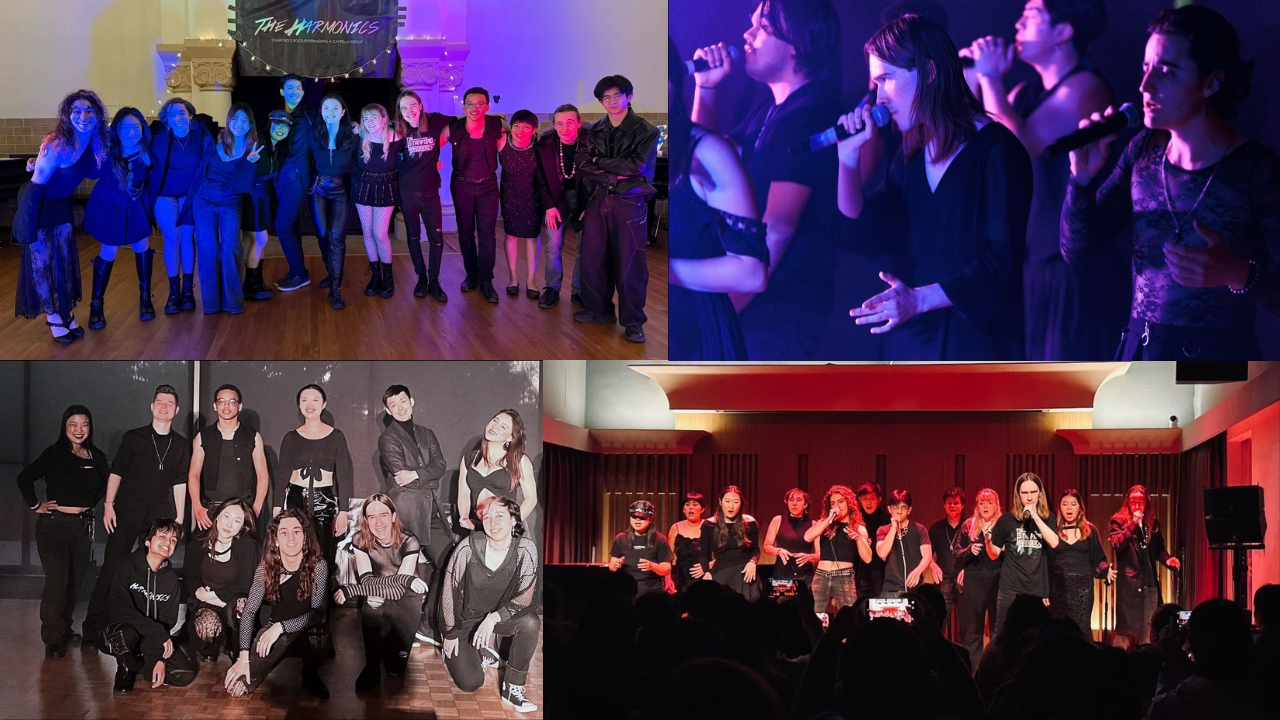
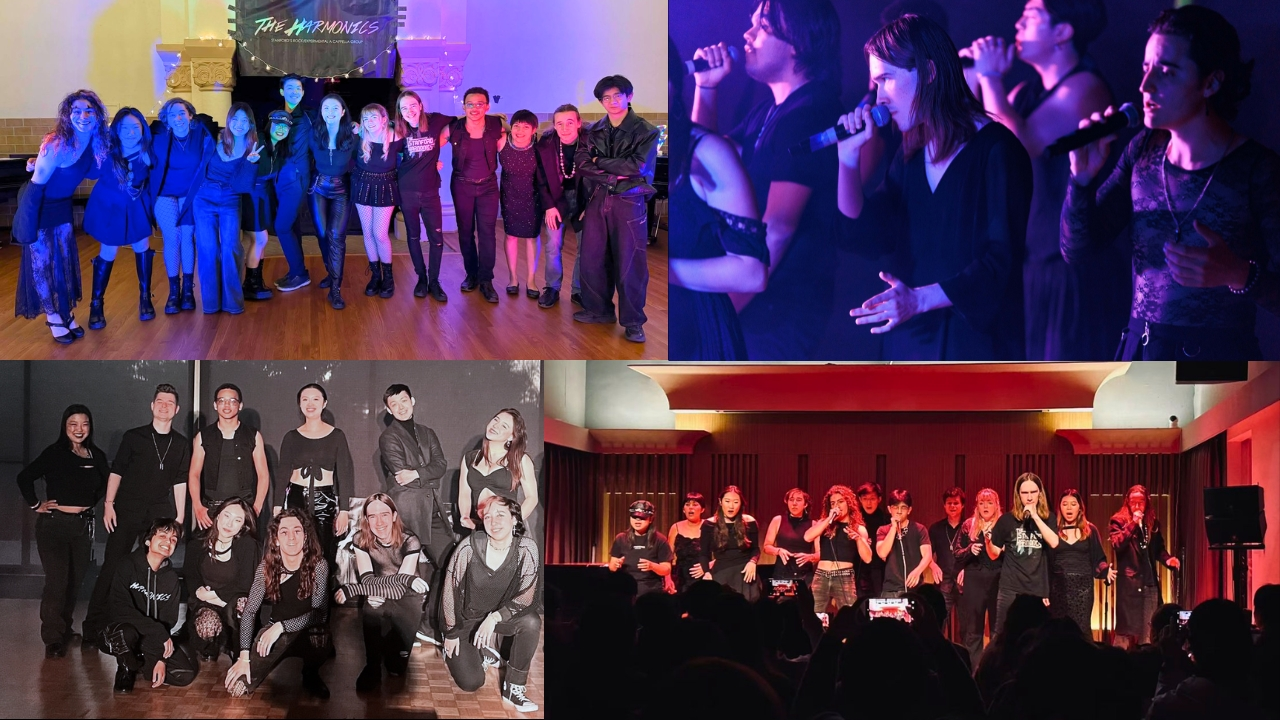
finally just minor text and image changes

diff --git a/work/myodyssey/index.html b/work/myodyssey/index.html
@@ -117,8 +117,8 @@
             <a class="pill-button secondary" href="#soundtrack">
               Soundtrack
             </a>
-            <a class="pill-button secondary" href="#playtest-videos">
-              Playtest Videos
+            <a class="pill-button secondary" href="#playtest-video">
+              Playtest Video
             </a>
           </div>
 
@@ -251,13 +251,13 @@
         <section class="section" id="playtest-videos" aria-labelledby="playtest-videos-heading">
           <div class="section-heading">
             <p class="section-kicker">04 · User Testing</p>
-            <h2 id="playtest-videos-heading">Playtest Videos</h2>
+            <h2 id="playtest-videos-heading">Playtest Video</h2>
           </div>
 
           <div class="embed-grid">
             <div class="embed-card">
               <div class="embed-header">
-                <span class="embed-title">User Playtest #9 (Hunter)</span>
+                <span class="embed-title">User Playtest #9</span>
                 <a href="https://www.youtube.com/watch?v=y13QXdr4ZWY" target="_blank" rel="noopener noreferrer">Watch on YouTube ↗</a>
               </div>
               <iframe

diff --git a/work/harmonics/index.html b/work/harmonics/index.html
@@ -240,7 +240,7 @@
                 loading="lazy"
               />
               <figcaption class="photo-caption">
-                Some of the audition graphics I designed for print and digital media, including posters, programs, and social media.
+                Graphics I designed for audition campaigns, including posters, postcards, and digital media.
               </figcaption>
             </figure>
           </div>
